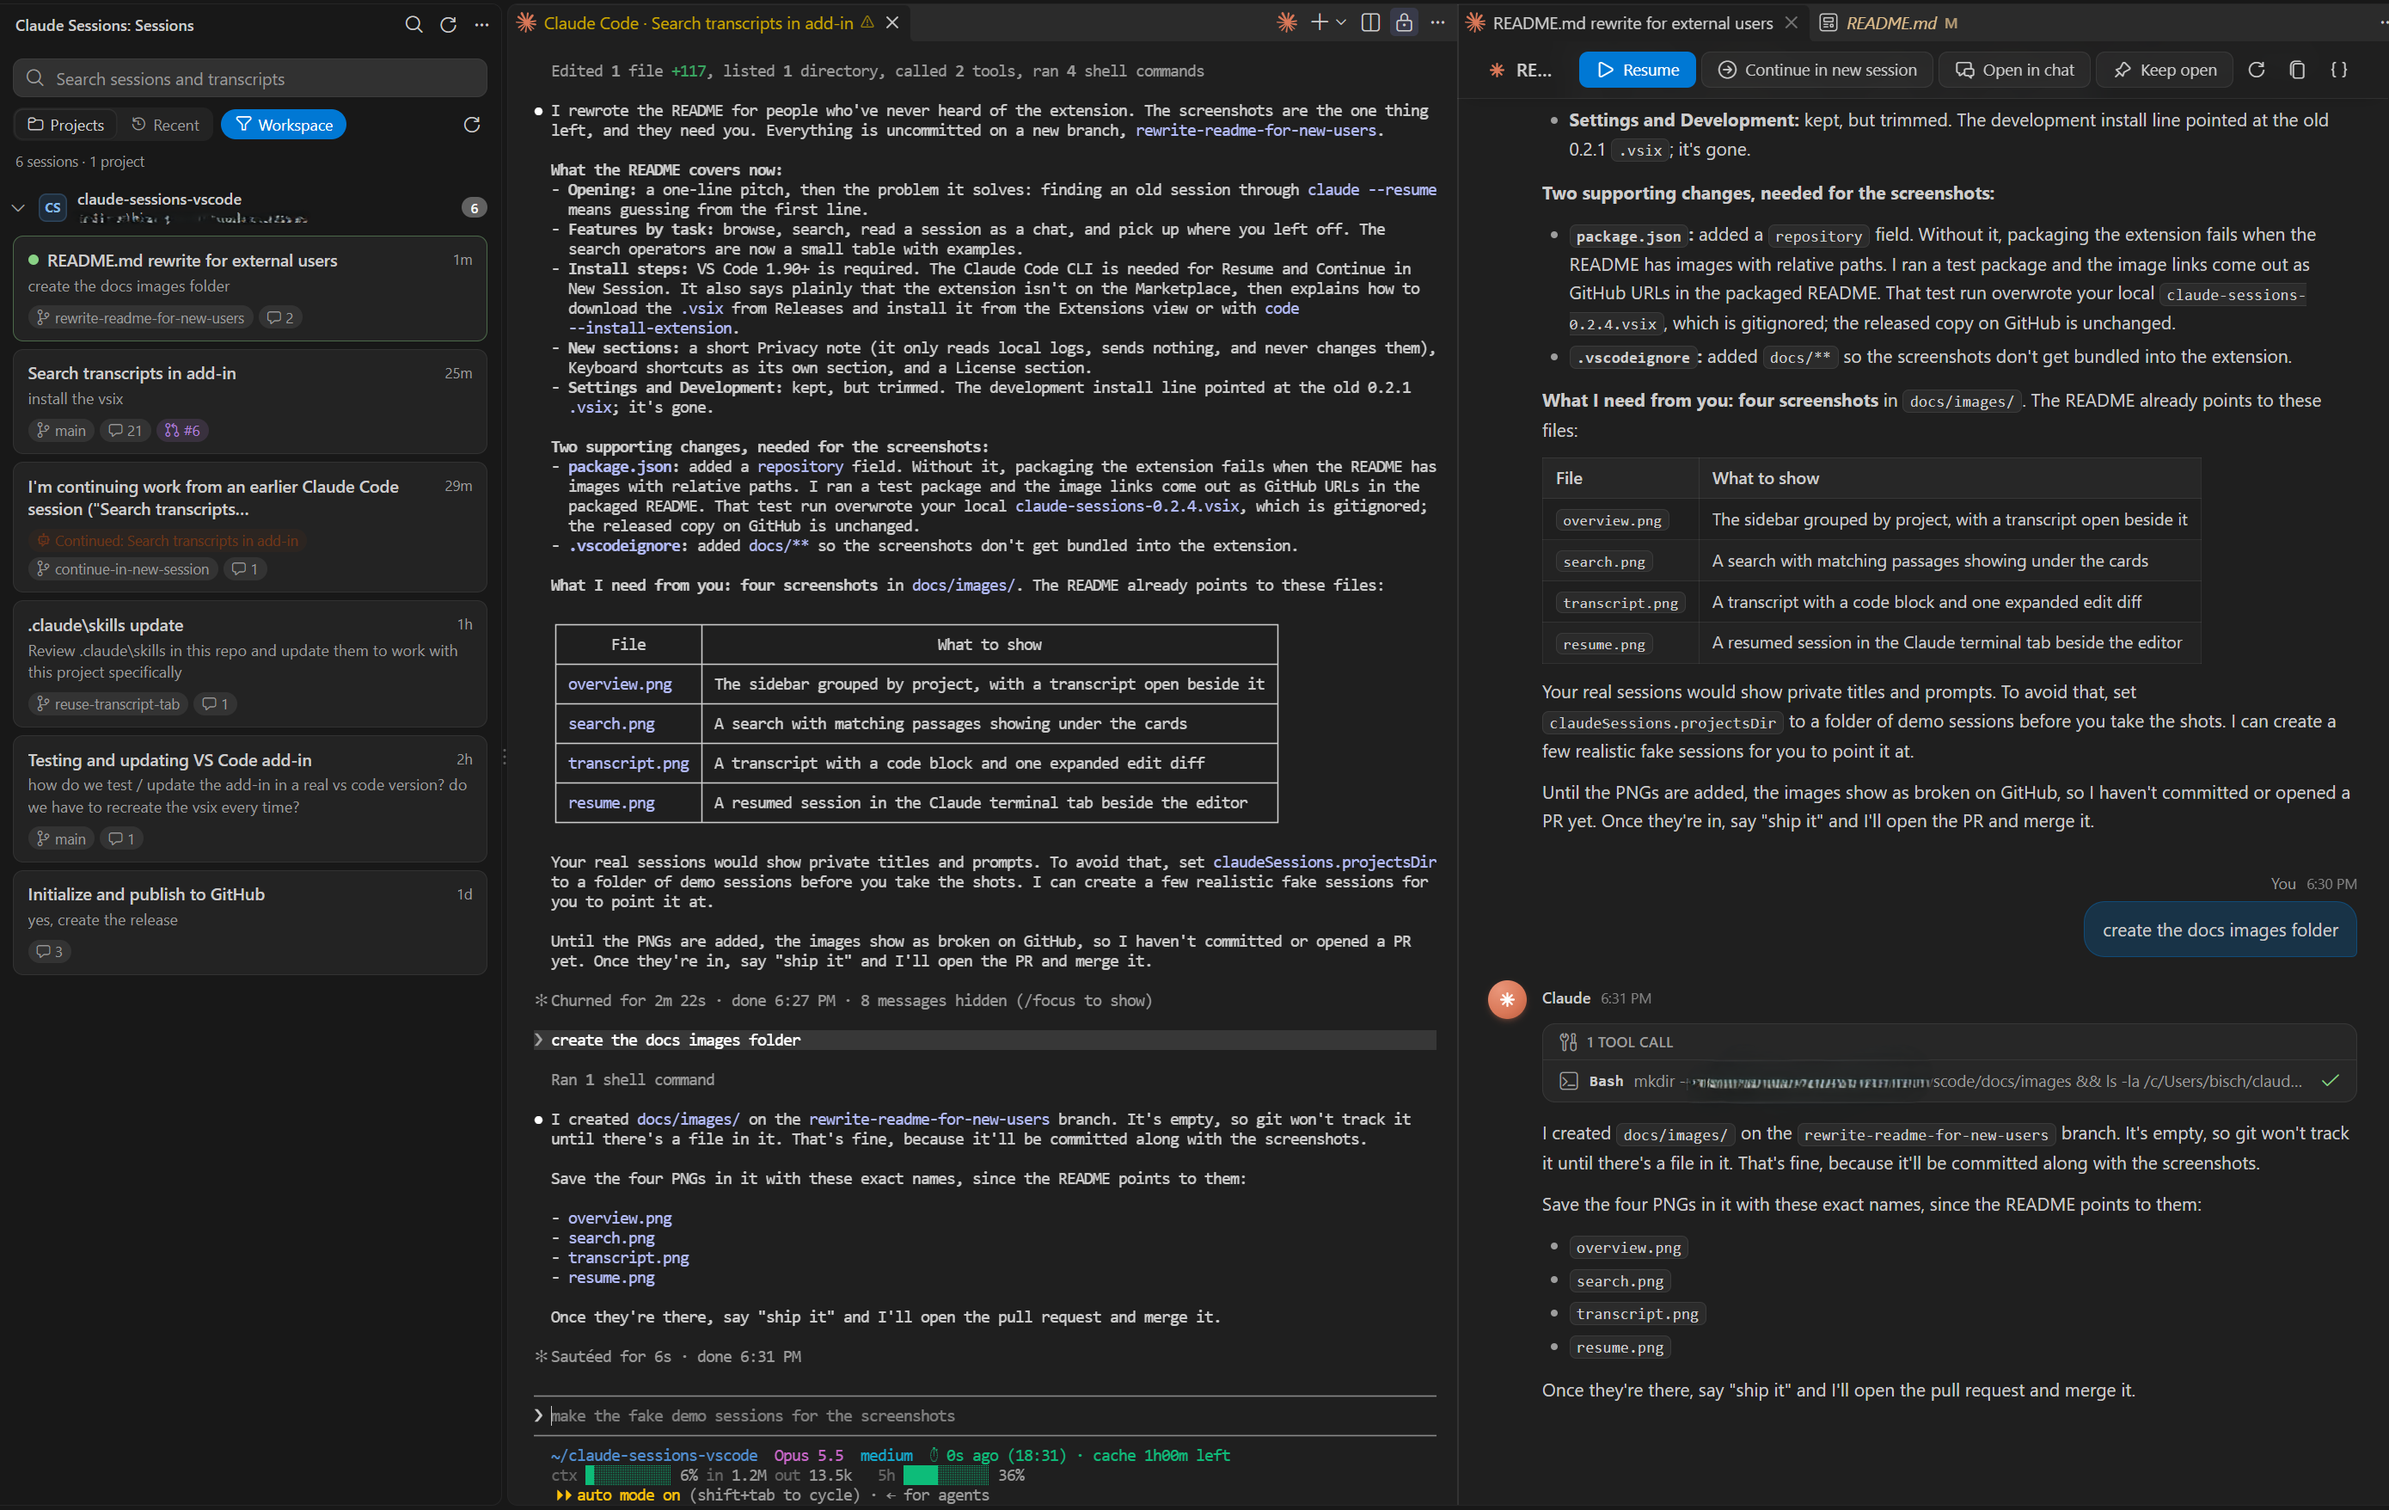
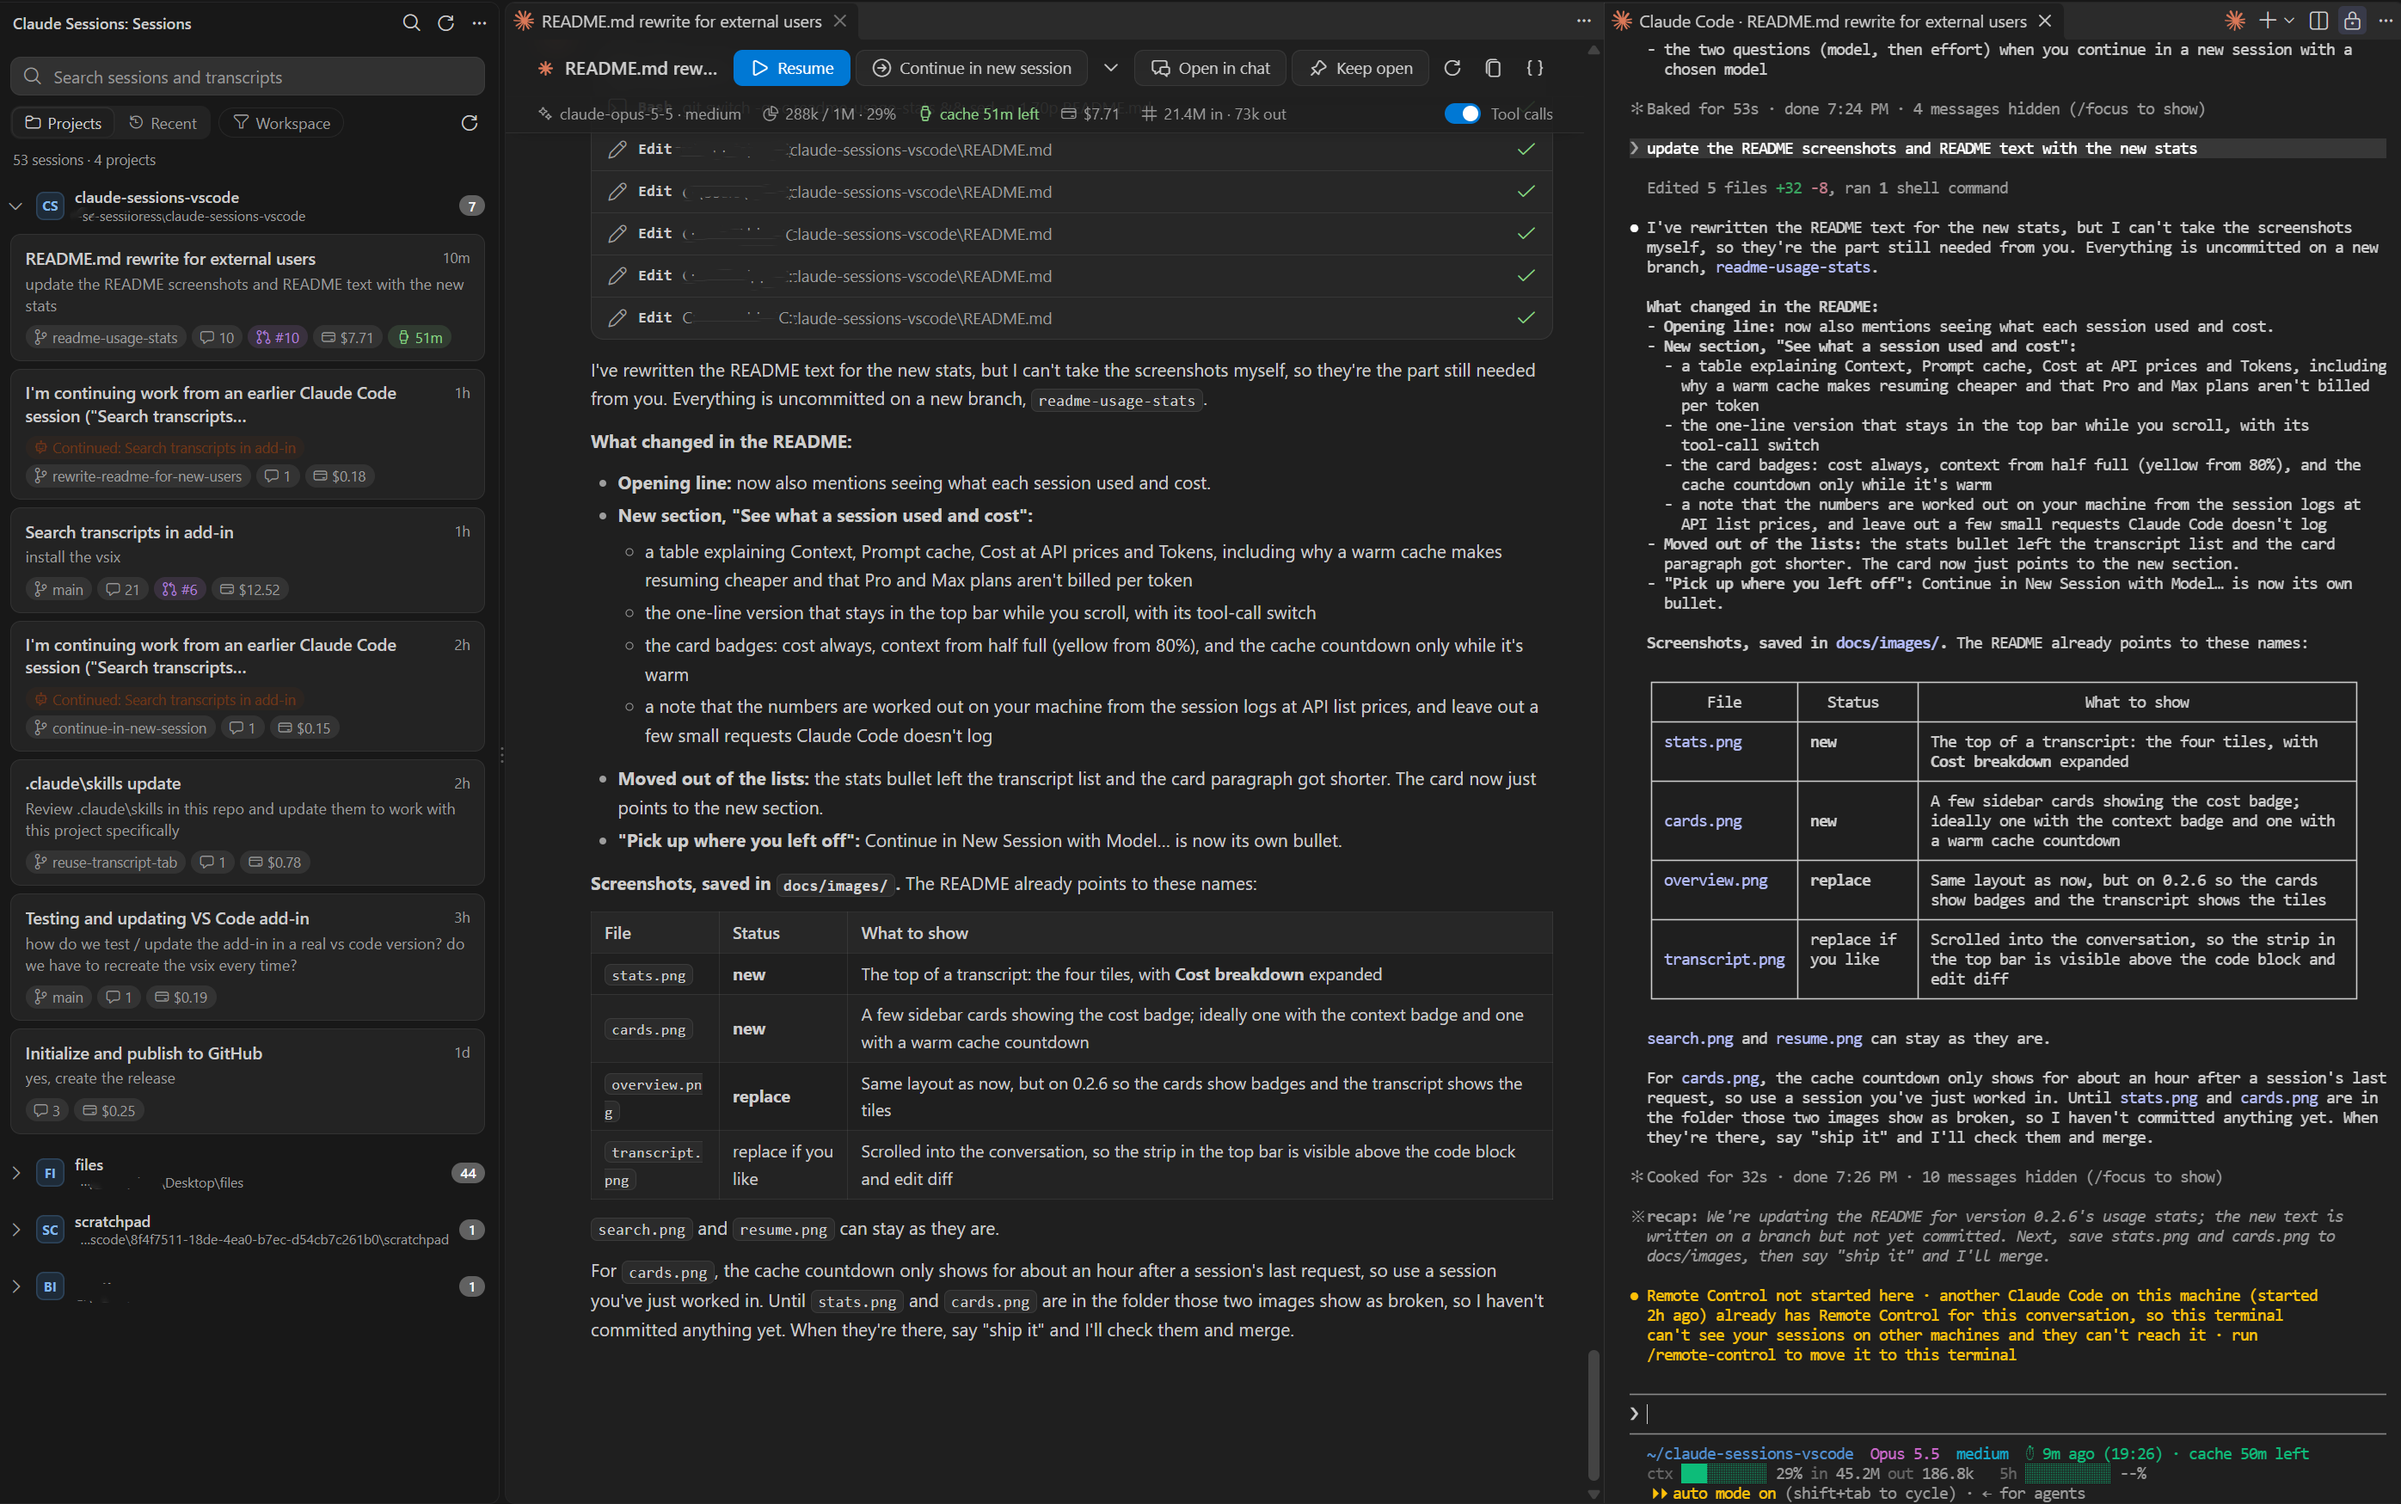
Show the usage stats in the README, with new screenshots
Adds a "See what a session used and cost" section: what the context,
prompt cache, cost and token stats mean, the compact strip that stays in
the top bar, and the card badges and when they appear. Continue in New
Session with Model... gets its own bullet. New stats.png and cards.png,
and overview.png retaken on 0.2.6.

28 tests green; vsce ls lists no docs/ files.

Claude-Session: https://claude.ai/code/session_01285htaGjNT8CHeyuMPRatj

Changed region(s): [[0.0928, 0.0, 0.9903, 1.0], [0.0, 0.0, 0.1857, 0.8645], [0.4642, 0.9571, 0.4951, 0.988]]

diff --git a/README.md b/README.md
@@ -2,7 +2,7 @@
 
 **Find, read and pick up any Claude Code session without leaving VS Code.**
 
-[Claude Code](https://claude.com/claude-code) saves every conversation you have with it, but finding an old one means scrolling through `claude --resume` and guessing from the first line. Claude Sessions adds a sidebar that shows all of your sessions across every project. You can search everything you and Claude said, read any conversation as a chat transcript, and resume it in one click.
+[Claude Code](https://claude.com/claude-code) saves every conversation you have with it, but finding an old one means scrolling through `claude --resume` and guessing from the first line. Claude Sessions adds a sidebar that shows all of your sessions across every project. You can search everything you and Claude said, read any conversation as a chat transcript, see what each session used and cost, and resume it in one click.
 
 ![The Claude Sessions sidebar next to a transcript](docs/images/overview.png)
 
@@ -12,7 +12,7 @@
 
 The sidebar shows a card for each session with its title, your latest prompt, when it happened, the git branch, how many prompts it has, and badges for subagents and pull requests. A pulsing green dot marks sessions that were active in the last few minutes.
 
-Each card also shows what the session cost at Claude API prices. Two more badges appear only when they're useful: how full the context window is once it passes 50%, and a countdown while the prompt cache is still warm, when resuming is cheapest.
+Each card also shows what the session cost, plus a couple of [usage badges](#see-what-a-session-used-and-cost) when they're worth knowing about.
 
 - **Projects** groups sessions by folder, and each project gets its own colored avatar. **Recent** groups them by date (Today, Yesterday, Previous 7 Days, and so on).
 - **Workspace** filter: show only the sessions started in the folders you have open in this window.
@@ -37,18 +37,42 @@ Press `/` to search. The search covers the card details and the full conversatio
 
 Click a session to open its transcript. Your prompts are on the right and Claude's replies are on the left, with markdown, tables and syntax-highlighted code that you can copy.
 
-- Above the conversation, usage stats like those in Claude Code's status line: how full the context window is, whether the prompt cache is still warm and for how long, the token counts, and the cost at Claude API prices, subagents included. Expand **Cost breakdown** to see the cost of each token type. On a Pro or Max plan you aren't billed per token, so the cost shows what the session would cost through the API.
 - Each tool call is a compact row with a ✓ or ✗. Click it to see the input and output. File edits show as a red/green diff.
 - Hide tool calls to read just the conversation, or jump straight to the latest message.
 - If you opened the transcript from a search, your search words are highlighted and it starts at the first match. Step through matches with F3 / Shift+F3.
 - Transcripts open in a single preview tab that the next one replaces, so tabs don't pile up. Double-click a session, or click **Keep open**, to give it a tab of its own.
+
+### See what a session used and cost
+
+![Usage stats above a transcript: context, prompt cache, cost and tokens, with the cost breakdown expanded](docs/images/stats.png)
+
+The top of each transcript shows the numbers Claude Code's status line shows while a session runs, so you can check them for any session, long after it ended:
+
+| Stat | What it tells you |
+| --- | --- |
+| **Context** | How full the context window was at the last request. Once it's filling up, continuing in a new session gives Claude room again. |
+| **Prompt cache** | Whether the conversation is still cached, with a countdown, and whether it's a 1-hour or 5-minute cache. Resuming while it's warm reads the context at a fraction of the price. After it expires, the whole context is written to the cache again. |
+| **Cost at API prices** | What the session's tokens cost at Claude API prices, subagents included. Expand **Cost breakdown** to see each token type. On a Pro or Max plan you aren't billed per token, so this shows what the session would cost through the API. |
+| **Tokens** | Tokens in and out, and how much of the input was read from the cache. |
+
+When you scroll down into the conversation, a one-line version of the stats stays in the bar at the top, along with the switch for showing tool calls. Click it to go back to the top.
+
+![Session cards with cost, context and prompt cache badges](docs/images/cards.png)
+
+Cards keep it short. Each one shows the cost, plus two badges that only appear when they're worth acting on:
+
+- **Context**, once the window is more than half full. It turns yellow from 80%.
+- **Prompt cache countdown**, while the cache is still warm.
+
+The numbers are worked out on your machine from the token counts in the session logs, using Claude API list prices. They leave out the few small background requests Claude Code doesn't log, such as naming the session.
 
 ### Pick up where you left off
 
 ![Resuming a session in a Claude Code terminal beside the editor](docs/images/resume.png)
 
 - **Resume** (▶) opens `claude --resume <id>` in a terminal tab beside your editor, in the session's project folder. If the session is already open, its terminal is focused instead.
-- **Continue in New Session** (⮕) starts a fresh session with a handoff of where the old one stopped. The handoff includes your last request, Claude's last reply, the files it edited and read, any open to-dos, the current `git status`, and the path to the old transcript. Claude is asked to summarize and wait for your instruction before changing anything. Use this when a session has grown too long to keep working in. To use a different model or effort level than your Claude Code settings, choose **Continue in New Session with Model…** from the right-click menu, or the ⌄ button next to **Continue in new session** in a transcript.
+- **Continue in New Session** (⮕) starts a fresh session with a handoff of where the old one stopped. The handoff includes your last request, Claude's last reply, the files it edited and read, any open to-dos, the current `git status`, and the path to the old transcript. Claude is asked to summarize and wait for your instruction before changing anything. Use this when a session has grown too long to keep working in.
+- **Continue in New Session with Model…** does the same, but first asks which model and effort level the new session should use, instead of your Claude Code settings. Find it in a card's right-click menu, or click the ⌄ next to **Continue in new session** in a transcript.
 - **Open in Claude Code Chat** reopens the session in the chat panel of the official Claude Code extension, if you have it installed.
 
 The sidebar refreshes on its own as sessions change, and everything follows your VS Code color theme.
